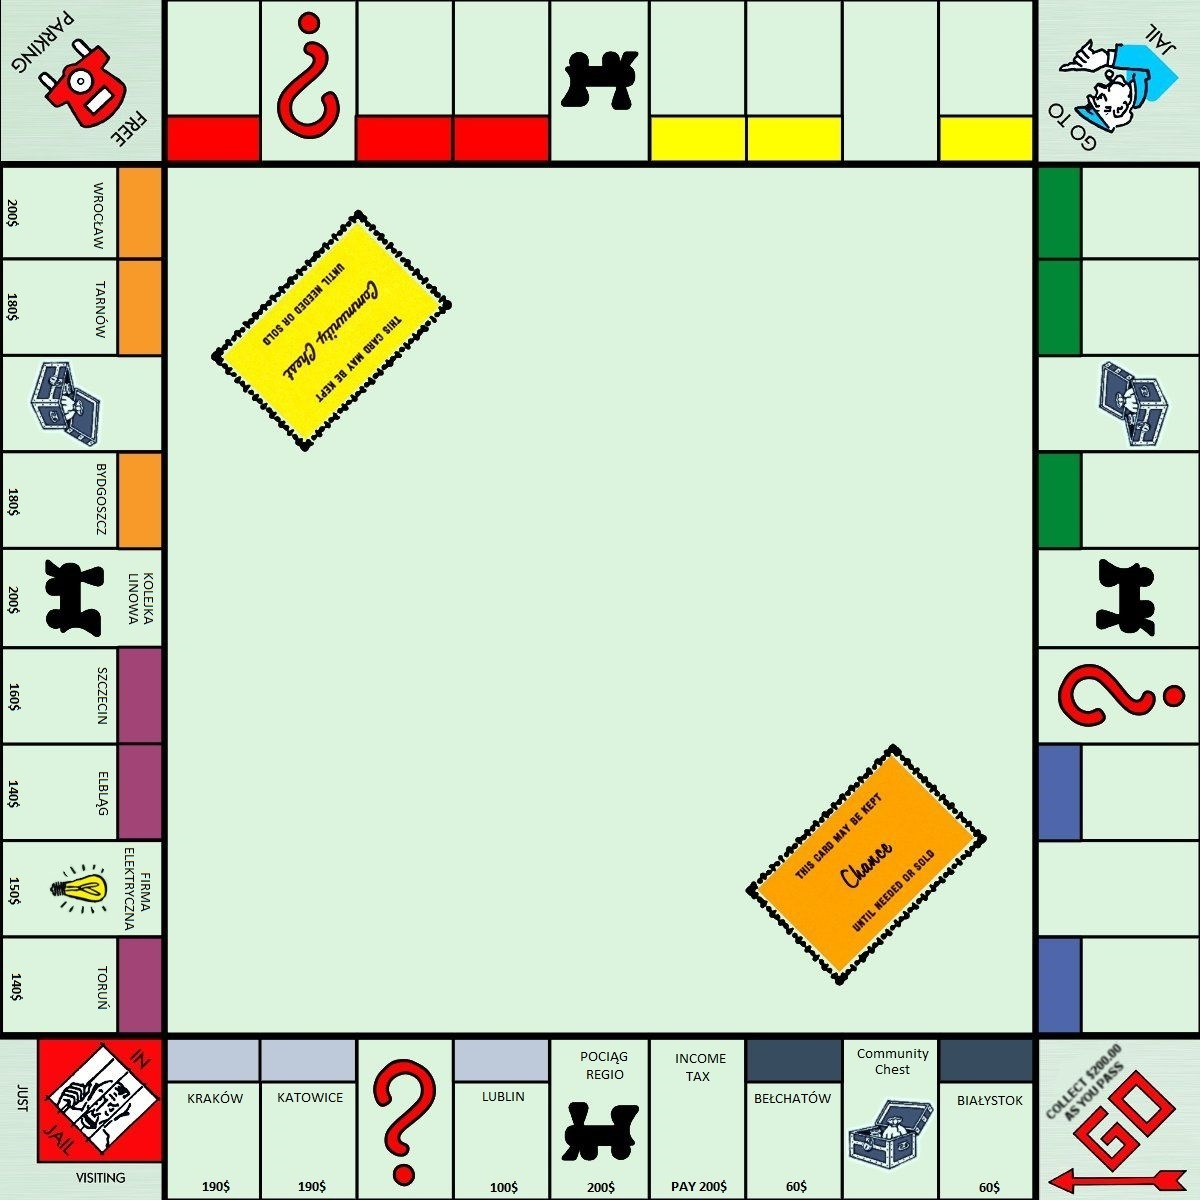
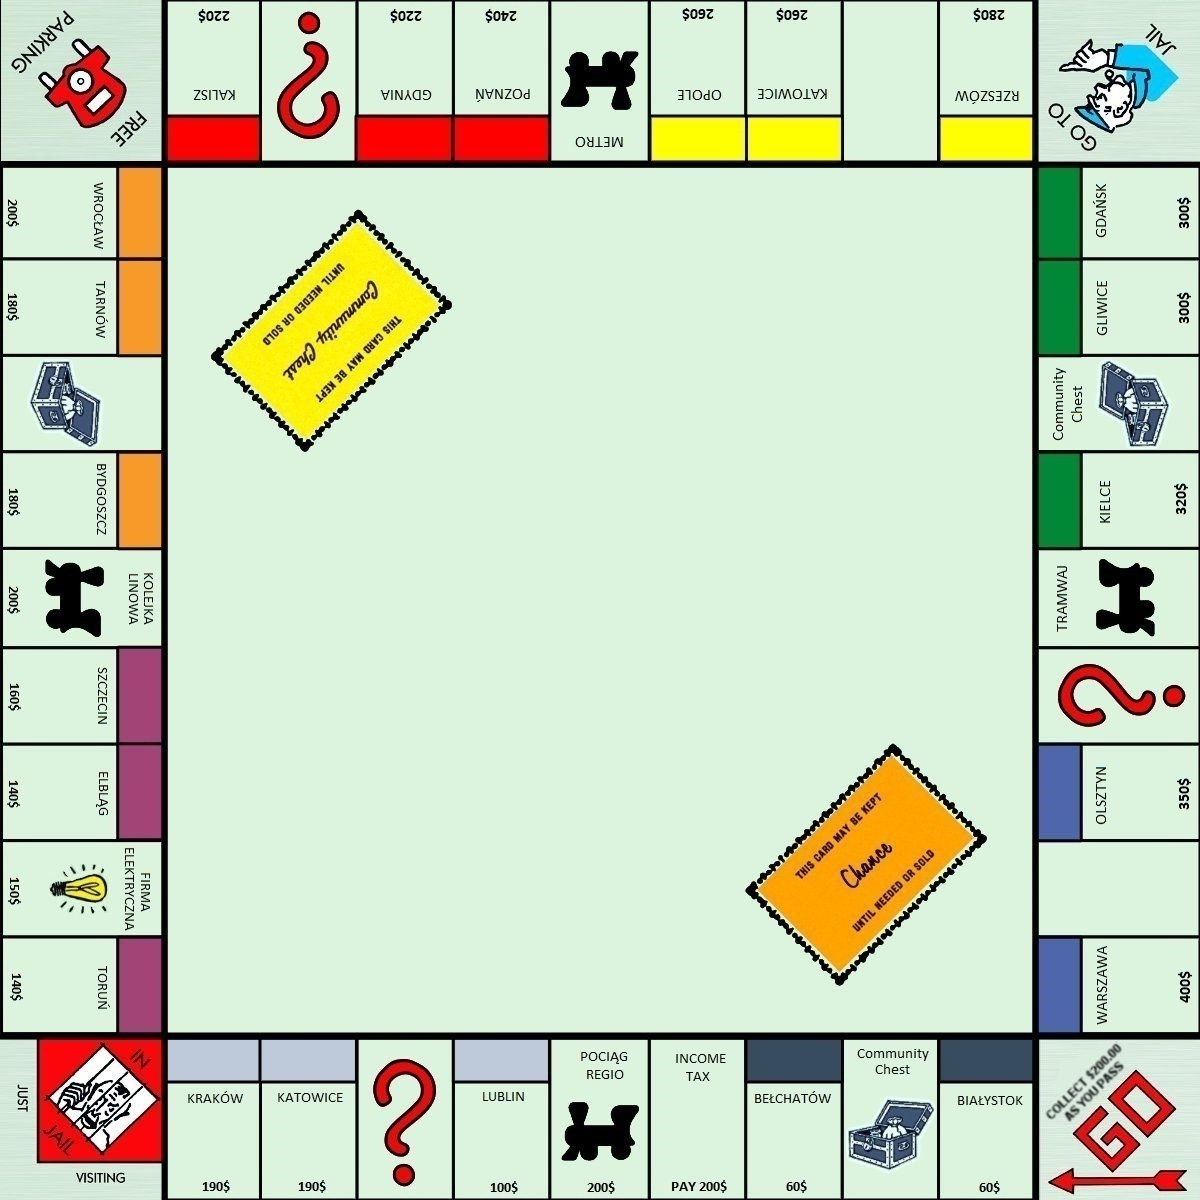
Kosmetyczne zmiany w polu

diff --git a/Board.py b/Board.py
@@ -10,67 +10,67 @@ Fields = [
     Field("Start", BOARD_X + (GAME_BOARD_WIDTH * 0.9), BOARD_Y + GAME_BOARD_HEIGHT - PAWN_SIZE[1], "start"),
     Estate("Białystok", BOARD_X + (GAME_BOARD_WIDTH * 0.8), BOARD_Y + GAME_BOARD_HEIGHT - PAWN_SIZE[1], "estate",
            60, (55, 76, 95)),
-    CommunityChest("Skrzynia", BOARD_X + (GAME_BOARD_WIDTH * 0.73), BOARD_Y + GAME_BOARD_HEIGHT - PAWN_SIZE[1],
-                   "chance"),
-    Estate("Bełchatów", BOARD_X + (GAME_BOARD_WIDTH * 0.64), BOARD_Y + GAME_BOARD_HEIGHT - PAWN_SIZE[1], "estate",
-           60, (55, 76, 95)),
-    IncomeTax("Podatek", BOARD_X + (GAME_BOARD_WIDTH * 0.56), BOARD_Y + GAME_BOARD_HEIGHT - PAWN_SIZE[1], "tax", 200),
-    RailRoad("Pociąg Regio", BOARD_X + (GAME_BOARD_WIDTH * 0.48), BOARD_Y + GAME_BOARD_HEIGHT - PAWN_SIZE[1],
-             "kolejka", 50),
-    Estate("Lublin", BOARD_X + (GAME_BOARD_WIDTH * 0.4), BOARD_Y + GAME_BOARD_HEIGHT - PAWN_SIZE[1], "estate",
-           100, (190, 202, 218)),
-    Chance("Szansa", BOARD_X + (GAME_BOARD_WIDTH * 0.32), BOARD_Y + GAME_BOARD_HEIGHT - PAWN_SIZE[1], "chance"),
-    Estate("Katowice", BOARD_X + (GAME_BOARD_WIDTH * 0.25), BOARD_Y + GAME_BOARD_HEIGHT - PAWN_SIZE[1], "estate", 100,
-           (190, 202, 218)),
-    Estate("Kraków", BOARD_X + (GAME_BOARD_WIDTH * 0.17), BOARD_Y + GAME_BOARD_HEIGHT - PAWN_SIZE[1], "estate", 120,
-           (190, 202, 218)),
-    Field("Wiezienie", BOARD_X + (GAME_BOARD_WIDTH * 0.05), BOARD_Y + GAME_BOARD_HEIGHT - PAWN_SIZE[1], "jail"),
-    Estate("Toruń", BOARD_X + (GAME_BOARD_WIDTH * 0.05), BOARD_Y + (GAME_BOARD_HEIGHT * 0.8), "estate", 140,
-           (162, 68, 118)),
-    IncomeTax("Podatek", BOARD_X + (GAME_BOARD_WIDTH * 0.05), BOARD_Y + (GAME_BOARD_HEIGHT * 0.7), "tax", 150),
-    Estate("Elbląg", BOARD_X + (GAME_BOARD_WIDTH * 0.05), BOARD_Y + (GAME_BOARD_HEIGHT * 0.65), "estate", 140,
-           (162, 68, 118)),
-    Estate("Szczecin", BOARD_X + (GAME_BOARD_WIDTH * 0.05), BOARD_Y + (GAME_BOARD_HEIGHT * 0.55), "estate", 160,
-           (162, 68, 118)),
-    RailRoad("Kolejka linowa", BOARD_X + (GAME_BOARD_WIDTH * 0.05), BOARD_Y + (GAME_BOARD_HEIGHT * 0.46), "kolejka",
-             100),
-    Estate("Bydgoszcz", BOARD_X + (GAME_BOARD_WIDTH * 0.05), BOARD_Y + (GAME_BOARD_HEIGHT * 0.38), "estate", 180,
-           (247, 154, 41)),
-    CommunityChest("Skrzynia", BOARD_X + (GAME_BOARD_WIDTH * 0.05), BOARD_Y + (GAME_BOARD_HEIGHT * 0.3),
-                   "chance"),
-    Estate("Tarnów", BOARD_X + (GAME_BOARD_WIDTH * 0.05), BOARD_Y + (GAME_BOARD_HEIGHT * 0.22), "estate", 180,
-           (247, 154, 41)),
-    Estate("Wrocław", BOARD_X + (GAME_BOARD_WIDTH * 0.05), BOARD_Y + (GAME_BOARD_HEIGHT * 0.15), "estate", 200,
-           (247, 154, 41)),
-    Field("Darmowy Parking", BOARD_X + (GAME_BOARD_WIDTH * 0.05), BOARD_Y + (GAME_BOARD_HEIGHT * 0.03), "parking"),
-    Estate("Kalisz", BOARD_X + (GAME_BOARD_WIDTH * 0.17), BOARD_Y + (GAME_BOARD_HEIGHT * 0.03), "estate", 220,
-           (253, 0, 0)),
-    Chance("Szansa", BOARD_X + (GAME_BOARD_WIDTH * 0.25), BOARD_Y + (GAME_BOARD_HEIGHT * 0.03), "chance"),
-    Estate("Gdynia", BOARD_X + (GAME_BOARD_WIDTH * 0.32), BOARD_Y + (GAME_BOARD_HEIGHT * 0.03), "estate", 220,
-           (253, 0, 0)),
-    Estate("Poznań", BOARD_X + (GAME_BOARD_WIDTH * 0.4), BOARD_Y + (GAME_BOARD_HEIGHT * 0.03), "estate", 240,
-           (253, 0, 0)),
-    RailRoad("Metro", BOARD_X + (GAME_BOARD_WIDTH * 0.48), BOARD_Y + (GAME_BOARD_HEIGHT * 0.03), "kolejka", 150),
-    Estate("Opole", BOARD_X + (GAME_BOARD_WIDTH * 0.56), BOARD_Y + (GAME_BOARD_HEIGHT * 0.03), "estate", 260,
-           (255, 255, 1)),
-    Estate("Katowice", BOARD_X + (GAME_BOARD_WIDTH * 0.64), BOARD_Y + (GAME_BOARD_HEIGHT * 0.03), "estate", 260,
-           (255, 255, 1)),
-    IncomeTax("Podatek", BOARD_X + (GAME_BOARD_WIDTH * 0.73), BOARD_Y + (GAME_BOARD_HEIGHT * 0.03), "tax", 150),
-    Estate("Rzeszów", BOARD_X + (GAME_BOARD_WIDTH * 0.8), BOARD_Y + (GAME_BOARD_HEIGHT * 0.03), "estate", 280,
-           (255, 255, 1)),
-    Field("Więzienie", BOARD_X + (GAME_BOARD_WIDTH * 0.93), BOARD_Y + (GAME_BOARD_HEIGHT * 0.03), "go_to_jail"),
-    Estate("Gdańsk", BOARD_X + (GAME_BOARD_WIDTH * 0.93), BOARD_Y + (GAME_BOARD_HEIGHT * 0.15), "estate", 300,
-           (0, 136, 54)),
-    Estate("", BOARD_X + (GAME_BOARD_WIDTH * 0.93), BOARD_Y + (GAME_BOARD_HEIGHT * 0.22), "estate", 300, (0, 136, 54)),
-    CommunityChest("Skrzynia", BOARD_X + (GAME_BOARD_WIDTH * 0.93), BOARD_Y + (GAME_BOARD_HEIGHT * 0.3),
-                   "chance"),
-    Estate("Kielce", BOARD_X + (GAME_BOARD_WIDTH * 0.93), BOARD_Y + (GAME_BOARD_HEIGHT * 0.38), "estate", 320,
-           (0, 136, 54)),
-    RailRoad("Tramwaj", BOARD_X + (GAME_BOARD_WIDTH * 0.93), BOARD_Y + (GAME_BOARD_HEIGHT * 0.46), "kolejka", 200),
-    Chance("Szansa", BOARD_X + (GAME_BOARD_WIDTH * 0.93), BOARD_Y + (GAME_BOARD_HEIGHT * 0.55), "chance"),
-    Estate("Olsztyn", BOARD_X + (GAME_BOARD_WIDTH * 0.93), BOARD_Y + (GAME_BOARD_HEIGHT * 0.65), "estate", 350,
-           (78, 102, 172)),
-    IncomeTax("Podatek", BOARD_X + (GAME_BOARD_WIDTH * 0.93), BOARD_Y + (GAME_BOARD_HEIGHT * 0.7), "tax", 150),
-    Estate("Warszawa", BOARD_X + (GAME_BOARD_WIDTH * 0.93), BOARD_Y + (GAME_BOARD_HEIGHT * 0.8), "estate", 400,
-           (78, 102, 172)),
+    # CommunityChest("Skrzynia", BOARD_X + (GAME_BOARD_WIDTH * 0.73), BOARD_Y + GAME_BOARD_HEIGHT - PAWN_SIZE[1],
+    #                "chance"),
+    # Estate("Bełchatów", BOARD_X + (GAME_BOARD_WIDTH * 0.64), BOARD_Y + GAME_BOARD_HEIGHT - PAWN_SIZE[1], "estate",
+    #        60, (55, 76, 95)),
+    # IncomeTax("Podatek", BOARD_X + (GAME_BOARD_WIDTH * 0.56), BOARD_Y + GAME_BOARD_HEIGHT - PAWN_SIZE[1], "tax", 200),
+    # RailRoad("Pociąg Regio", BOARD_X + (GAME_BOARD_WIDTH * 0.48), BOARD_Y + GAME_BOARD_HEIGHT - PAWN_SIZE[1],
+    #          "kolejka", 50),
+    # Estate("Lublin", BOARD_X + (GAME_BOARD_WIDTH * 0.4), BOARD_Y + GAME_BOARD_HEIGHT - PAWN_SIZE[1], "estate",
+    #        100, (190, 202, 218)),
+    # Chance("Szansa", BOARD_X + (GAME_BOARD_WIDTH * 0.32), BOARD_Y + GAME_BOARD_HEIGHT - PAWN_SIZE[1], "chance"),
+    # Estate("Katowice", BOARD_X + (GAME_BOARD_WIDTH * 0.25), BOARD_Y + GAME_BOARD_HEIGHT - PAWN_SIZE[1], "estate", 100,
+    #        (190, 202, 218)),
+    # Estate("Kraków", BOARD_X + (GAME_BOARD_WIDTH * 0.17), BOARD_Y + GAME_BOARD_HEIGHT - PAWN_SIZE[1], "estate", 120,
+    #        (190, 202, 218)),
+    # Field("Wiezienie", BOARD_X + (GAME_BOARD_WIDTH * 0.05), BOARD_Y + GAME_BOARD_HEIGHT - PAWN_SIZE[1], "jail"),
+    # Estate("Toruń", BOARD_X + (GAME_BOARD_WIDTH * 0.05), BOARD_Y + (GAME_BOARD_HEIGHT * 0.8), "estate", 140,
+    #        (162, 68, 118)),
+    # IncomeTax("Podatek", BOARD_X + (GAME_BOARD_WIDTH * 0.05), BOARD_Y + (GAME_BOARD_HEIGHT * 0.7), "tax", 150),
+    # Estate("Elbląg", BOARD_X + (GAME_BOARD_WIDTH * 0.05), BOARD_Y + (GAME_BOARD_HEIGHT * 0.65), "estate", 140,
+    #        (162, 68, 118)),
+    # Estate("Szczecin", BOARD_X + (GAME_BOARD_WIDTH * 0.05), BOARD_Y + (GAME_BOARD_HEIGHT * 0.55), "estate", 160,
+    #        (162, 68, 118)),
+    # RailRoad("Kolejka linowa", BOARD_X + (GAME_BOARD_WIDTH * 0.05), BOARD_Y + (GAME_BOARD_HEIGHT * 0.46), "kolejka",
+    #          100),
+    # Estate("Bydgoszcz", BOARD_X + (GAME_BOARD_WIDTH * 0.05), BOARD_Y + (GAME_BOARD_HEIGHT * 0.38), "estate", 180,
+    #        (247, 154, 41)),
+    # CommunityChest("Skrzynia", BOARD_X + (GAME_BOARD_WIDTH * 0.05), BOARD_Y + (GAME_BOARD_HEIGHT * 0.3),
+    #                "chance"),
+    # Estate("Tarnów", BOARD_X + (GAME_BOARD_WIDTH * 0.05), BOARD_Y + (GAME_BOARD_HEIGHT * 0.22), "estate", 180,
+    #        (247, 154, 41)),
+    # Estate("Wrocław", BOARD_X + (GAME_BOARD_WIDTH * 0.05), BOARD_Y + (GAME_BOARD_HEIGHT * 0.15), "estate", 200,
+    #        (247, 154, 41)),
+    # Field("Darmowy Parking", BOARD_X + (GAME_BOARD_WIDTH * 0.05), BOARD_Y + (GAME_BOARD_HEIGHT * 0.03), "parking"),
+    # Estate("Kalisz", BOARD_X + (GAME_BOARD_WIDTH * 0.17), BOARD_Y + (GAME_BOARD_HEIGHT * 0.03), "estate", 220,
+    #        (253, 0, 0)),
+    # Chance("Szansa", BOARD_X + (GAME_BOARD_WIDTH * 0.25), BOARD_Y + (GAME_BOARD_HEIGHT * 0.03), "chance"),
+    # Estate("Gdynia", BOARD_X + (GAME_BOARD_WIDTH * 0.32), BOARD_Y + (GAME_BOARD_HEIGHT * 0.03), "estate", 220,
+    #        (253, 0, 0)),
+    # Estate("Poznań", BOARD_X + (GAME_BOARD_WIDTH * 0.4), BOARD_Y + (GAME_BOARD_HEIGHT * 0.03), "estate", 240,
+    #        (253, 0, 0)),
+    # RailRoad("Metro", BOARD_X + (GAME_BOARD_WIDTH * 0.48), BOARD_Y + (GAME_BOARD_HEIGHT * 0.03), "kolejka", 150),
+    # Estate("Opole", BOARD_X + (GAME_BOARD_WIDTH * 0.56), BOARD_Y + (GAME_BOARD_HEIGHT * 0.03), "estate", 260,
+    #        (255, 255, 1)),
+    # Estate("Katowice", BOARD_X + (GAME_BOARD_WIDTH * 0.64), BOARD_Y + (GAME_BOARD_HEIGHT * 0.03), "estate", 260,
+    #        (255, 255, 1)),
+    # IncomeTax("Podatek", BOARD_X + (GAME_BOARD_WIDTH * 0.73), BOARD_Y + (GAME_BOARD_HEIGHT * 0.03), "tax", 150),
+    # Estate("Rzeszów", BOARD_X + (GAME_BOARD_WIDTH * 0.8), BOARD_Y + (GAME_BOARD_HEIGHT * 0.03), "estate", 280,
+    #        (255, 255, 1)),
+    # Field("Więzienie", BOARD_X + (GAME_BOARD_WIDTH * 0.93), BOARD_Y + (GAME_BOARD_HEIGHT * 0.03), "go_to_jail"),
+    # Estate("Gdańsk", BOARD_X + (GAME_BOARD_WIDTH * 0.93), BOARD_Y + (GAME_BOARD_HEIGHT * 0.15), "estate", 300,
+    #        (0, 136, 54)),
+    # Estate("Gliwice", BOARD_X + (GAME_BOARD_WIDTH * 0.93), BOARD_Y + (GAME_BOARD_HEIGHT * 0.22), "estate", 300, (0, 136, 54)),
+    # CommunityChest("Skrzynia", BOARD_X + (GAME_BOARD_WIDTH * 0.93), BOARD_Y + (GAME_BOARD_HEIGHT * 0.3),
+    #                "chance"),
+    # Estate("Kielce", BOARD_X + (GAME_BOARD_WIDTH * 0.93), BOARD_Y + (GAME_BOARD_HEIGHT * 0.38), "estate", 320,
+    #        (0, 136, 54)),
+    # RailRoad("Tramwaj", BOARD_X + (GAME_BOARD_WIDTH * 0.93), BOARD_Y + (GAME_BOARD_HEIGHT * 0.46), "kolejka", 200),
+    # Chance("Szansa", BOARD_X + (GAME_BOARD_WIDTH * 0.93), BOARD_Y + (GAME_BOARD_HEIGHT * 0.55), "chance"),
+    # Estate("Olsztyn", BOARD_X + (GAME_BOARD_WIDTH * 0.93), BOARD_Y + (GAME_BOARD_HEIGHT * 0.65), "estate", 350,
+    #        (78, 102, 172)),
+    # IncomeTax("Podatek", BOARD_X + (GAME_BOARD_WIDTH * 0.93), BOARD_Y + (GAME_BOARD_HEIGHT * 0.7), "tax", 150),
+    # Estate("Warszawa", BOARD_X + (GAME_BOARD_WIDTH * 0.93), BOARD_Y + (GAME_BOARD_HEIGHT * 0.8), "estate", 400,
+    #        (78, 102, 172)),
 ]

diff --git a/main.py b/main.py
@@ -80,7 +80,7 @@ class Board:
                 owner.add_money(rent)
                 self.code_message = 1
 
-            elif owner is None:
+            elif owner is None or owner is player:
                 self.show_buy_button = True
 
         elif field_type == "chance":
@@ -142,6 +142,30 @@ class Board:
             play_sound("results")
             self.finish = True
 
+    def buy_button_action(self):
+        current_player = self.players[self.current_player_index]
+        current_field = Fields[current_player.current_point]
+        if current_player is not current_field.get_owner():
+            if current_player.get_money() >= current_field.get_price():
+                if current_field.get_owner() is None:
+                    # Aktualizacja informacji o polu i graczu
+                    current_field.set_owner(current_player)
+                    current_player.subtract_money(current_field.get_price())
+                    current_player.add_property(current_field)
+                    current_player.set_score(current_field.get_value())
+                    play_sound("buy_property")
+
+            else:
+                self.code_message = 7
+                play_sound("error")
+        elif current_field.get_owner() is current_player:
+            if current_player.get_money() >= current_field.get_buy_home_price():
+                current_field.buy_home()
+                current_player.subtract_money(current_field.get_buy_home_price())
+            else:
+                self.code_message = 7
+                play_sound("error")
+
     def move_player(self, player):
         if self.dice_roll_1 > 0:
             player.current_point = (player.current_point + 1) % len(Fields)  # Aktualizacja pozycji gracza
@@ -170,13 +194,18 @@ class Board:
 
     def draw_game(self):
         font = pygame.font.Font(None, FONT_SIZE)
+        for_for_player_name = pygame.font.Font(None, FONT_SIZE * 2)
         draw_game_board()
         for player in self.players:
             player.draw(screen)
         draw_players_information(font, self.players, self.player_colors)
         current_player = self.players[self.current_player_index]
-        current_player_text = font.render("Aktualny gracz: " + str(current_player.name),
-                                          True, self.player_colors[self.current_player_index])
+        current_player_text = for_for_player_name.render("Aktualny gracz",
+                                                         True, self.player_colors[self.current_player_index])
+        current_player_rect = current_player_text.get_rect(center=(available_width // 8, available_height * 0.1))
+        screen.blit(current_player_text, current_player_rect)
+        current_player_text = for_for_player_name.render(str(current_player.name),
+                                                         True, self.player_colors[self.current_player_index])
         current_player_rect = current_player_text.get_rect(center=(available_width // 8, available_height * 0.2))
         screen.blit(current_player_text, current_player_rect)
 
@@ -198,7 +227,8 @@ class Board:
         if self.show_card:
             draw_card(self.players, self.current_player_index)
         if self.code_message:
-            draw_message(self.code_message, current_field, font, self.players, self.current_player_index)
+            draw_message(self.code_message, current_field, pygame.font.Font(None, FONT_SIZE * 2), self.players,
+                         self.current_player_index)
         if self.dice_roll_animation:
             animate_dice_roll(self.dice_roll_1 - 1, self.dice_roll_2 - 1, self.players)
             self.dice_roll_animation = False
@@ -240,21 +270,7 @@ class Board:
             elif event.type == pygame.MOUSEBUTTONDOWN and event.button == 1:
                 mouse_pos = pygame.mouse.get_pos()
                 if BUY_BUTTON_RECT.collidepoint(mouse_pos):
-                    # Kod wykonujący kupno pola
-                    current_player = self.players[self.current_player_index]
-                    current_field = Fields[current_player.current_point]
-                    if current_player.get_money() >= current_field.get_price():
-                        if current_field.get_owner() is None:
-                            # Aktualizacja informacji o polu i graczu
-                            current_field.set_owner(current_player)
-                            current_player.subtract_money(current_field.get_price())
-                            current_player.add_property(current_field)
-                            current_player.set_score(current_field.get_value())
-                            play_sound("buy_property")
-
-                    else:
-                        self.code_message = 7
-                        play_sound("error")
+                    self.buy_button_action()
                 self.show_buy_button = False
 
         for player in self.players:
@@ -272,5 +288,5 @@ class Board:
 # menuscreen.start()
 # game_board_start = Board(len(menuscreen.get_players_name()), menuscreen.get_players_name(),
 #                          menuscreen.get_selected_colors())
-game_board_start = Board(3, ["Piotr", "Angelika", "Bartek"], [(0, 255, 0), (255, 0, 0), (0, 0, 255)])
+game_board_start = Board(2, ["Piotr", "Angelika"], [(0, 255, 0), (255, 0, 0)])
 game_board_start.start()

diff --git a/ChanceCard.py b/ChanceCard.py
@@ -22,24 +22,30 @@ class ChanceCard:
             current_player.add_money(200)
             play_sound("positive_card")
         elif self.title == "Card3":
-            current_player.current_point = 1
-            current_player.rect.center = fields[1].get_coordinates()
+            current_player.current_point = 24
+            current_player.rect.center = fields[24].get_coordinates()
         elif self.title == "Card4":
-            current_player.current_point = 1
-            current_player.rect.center = fields[1].get_coordinates()
+            current_player.current_point = 11
+            current_player.rect.center = fields[11].get_coordinates()
         elif self.title == "Card5":
             if current_player.current_point == 7:
+                current_player.current_point = 5
                 current_player.rect.center = fields[5].get_coordinates()
             if current_player.current_point == 22:
+                current_player.current_point = 25
                 current_player.rect.center = fields[25].get_coordinates()
             if current_player.current_point == 36:
+                current_player.current_point = 35
                 current_player.rect.center = fields[35].get_coordinates()
         elif self.title == "Card6":
             if current_player.current_point == 7:
+                current_player.current_point = 12
                 current_player.rect.center = fields[12].get_coordinates()
             if current_player.current_point == 22:
+                current_player.current_point = 28
                 current_player.rect.center = fields[28].get_coordinates()
             if current_player.current_point == 36:
+                current_player.current_point = 38
                 current_player.rect.center = fields[38].get_coordinates()
         elif self.title == "Card7":
             current_player.add_money(50)

diff --git a/Chance.py b/Chance.py
@@ -14,10 +14,10 @@ class Chance(Field):
         self.cards.append(card)
 
     def get_chance_cards(self):
-        return [ChanceCard("Card1", "Przejdź do Warszawa"),
+        return [ChanceCard("Card1", "Przejdź do Warszawy"),
                 ChanceCard("Card2", "Przejdź na Start (Zabierz 200 $)"),
-                ChanceCard("Card3", "Przejdź do Illinois Avenue. Jeśli zdasz Go, odbierz 200 $"),
-                ChanceCard("Card4", "Przejdź do St. Charles Place. Jeśli zdasz Go, odbierz 200 $"),
+                ChanceCard("Card3", "Udaj się do Poznania. Jeśli przejdziesz Start, odbierz 200 $"),
+                ChanceCard("Card4", "Udaj się do torunia. Jeśli przejdziesz Start, odbierz 200 $"),
                 ChanceCard("Card5", "Przejdź do najbliższej linii kolejowej."),
                 ChanceCard("Card6", "Przejdź do najbliższego Narzędzia.."),
                 ChanceCard("Card7", "Bank wypłaca Ci dywidendę w wysokości 50 $"),

diff --git a/Ui.py b/Ui.py
@@ -27,7 +27,8 @@ def draw_game_board():
 def draw_message(code, field, font, players, current_player_index):
     global message, word_height
     if code == 1:
-        message = ("Płacisz " + str(field.get_rent()) + " czynszu")
+        message = (
+        "Płacisz " + str(field.get_rent()) + "$ czynszu!")
 
     elif code == 2:
         current_card = field.get_current_card()
@@ -48,7 +49,7 @@ def draw_message(code, field, font, players, current_player_index):
             x = available_width * 0.35
             y += word_height
     elif code == 3:
-        message = "Idziesz do więzienia"
+        message = "Idziesz do więzienia!"
     elif code == 4:
         tax = field.get_tax()
         message = ("Płacisz" + str(tax) + "$ podatku")

diff --git a/Estate.py b/Estate.py
@@ -14,6 +14,7 @@ class Estate(Field):
 
     def get_price(self):
         return self.price
+
     def get_value(self):
         return self.value
 
@@ -34,6 +35,9 @@ class Estate(Field):
 
     def buy_home(self):
         self.number_of_houses += 1
+
+    def get_buy_home_price(self):
+        return self.house_price
 
     def get_color(self):
         return self.color
